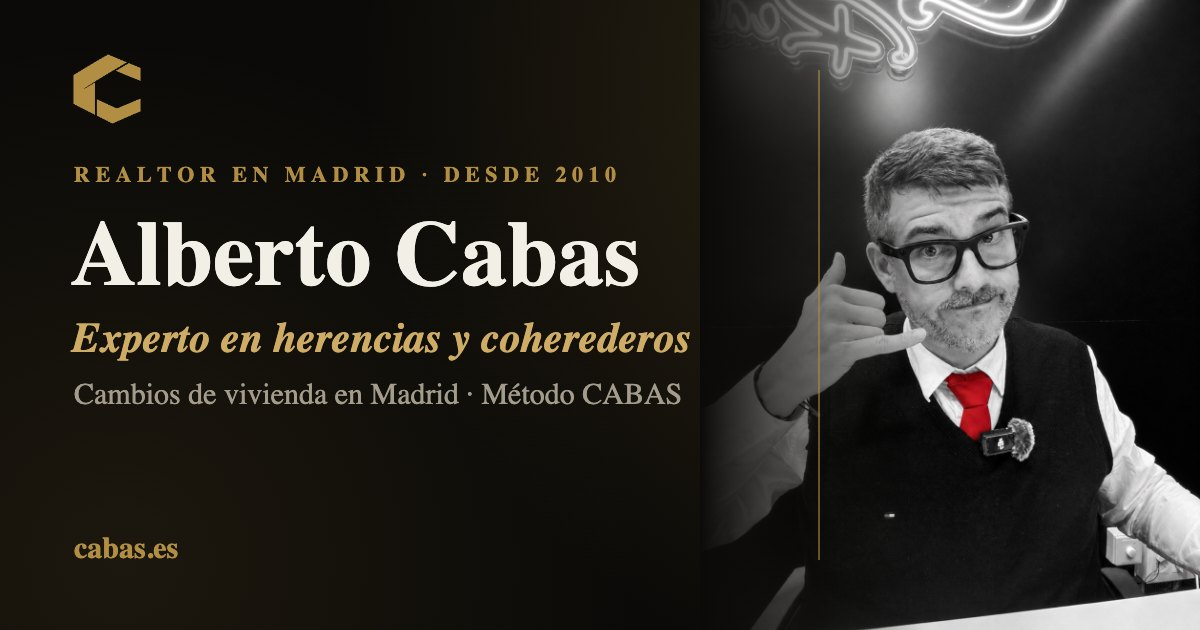
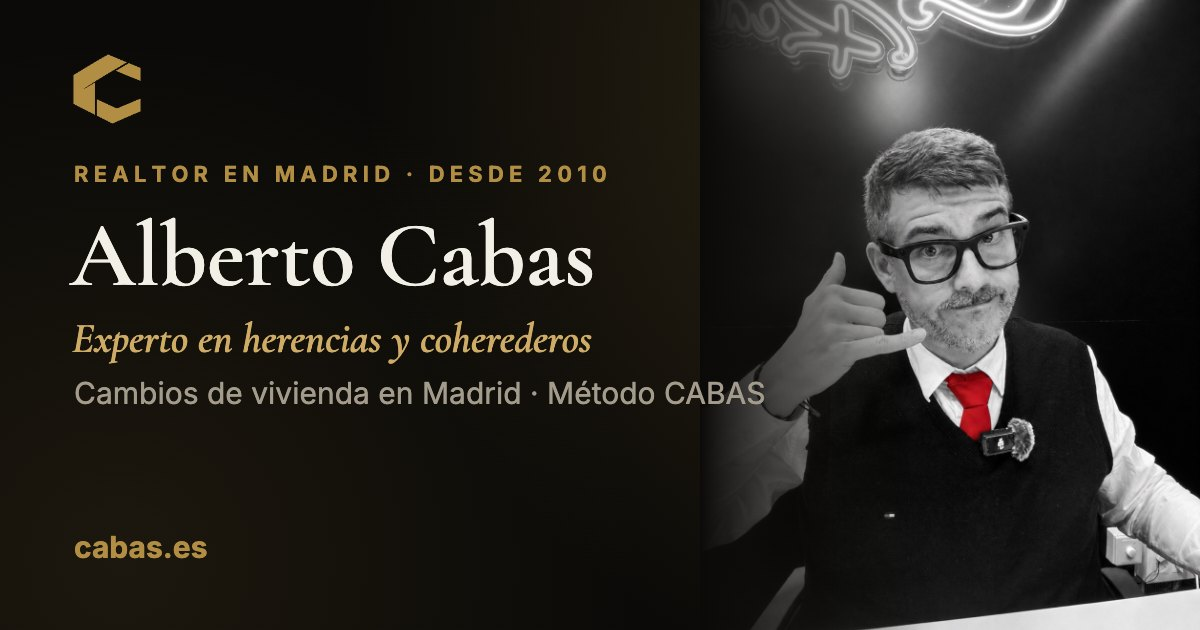
Correcciones: imagen al compartir, aviso, calendario y PDF
- OG image: quitada la línea dorada que cruzaba la mano en el banner
- Aviso "datos precargados" (informe): borde dorado completo en vez de línea verde
- Calculadoras en claro: color-scheme:light para que el icono del calendario de las fechas se vea sobre fondo blanco
- Hoja del PDF (informe del neto): dígitos de la tabla con tabular-nums para que queden alineados

diff --git a/css/informe.css b/css/informe.css
@@ -34,7 +34,7 @@
 .i-tabla-cab .tin-label{color:#8A8272;font-size:.78rem}
 table.i-tabla{width:100%;border-collapse:collapse;margin-bottom:.5rem}
 table.i-tabla th{background:#000;color:#F2EFE7;text-align:left;font-size:.72rem;text-transform:uppercase;letter-spacing:.05em;padding:.6rem .7rem;font-weight:600}
-table.i-tabla th.num,table.i-tabla td.num{text-align:right}
+table.i-tabla th.num,table.i-tabla td.num{text-align:right;font-variant-numeric:tabular-nums}
 table.i-tabla th.centro,table.i-tabla td.centro{text-align:center}
 table.i-tabla td{padding:.65rem .7rem;font-size:.86rem;border-bottom:1px solid #EDE7D8;color:#1A1712}
 table.i-tabla tr:nth-child(even) td{background:#FAF8F2}

diff --git a/js/informe-ui.js b/js/informe-ui.js
@@ -34,7 +34,7 @@ actualizarHonorariosUI();
   if (p.get('ccaa')) document.getElementById('f-ccaa').value = p.get('ccaa');
   if (p.get('tipo')) document.getElementById('f-tipo').value = p.get('tipo');
   const aviso = document.getElementById('f-avisos');
-  aviso.innerHTML = '<div class="aviso aviso-verde">Datos precargados desde el simulador. Añade abajo las aportaciones, tipos de interés y plazos que quieras comparar.</div>';
+  aviso.innerHTML = '<div class="aviso aviso-oro">Datos precargados desde el simulador. Añade abajo las aportaciones, tipos de interés y plazos que quieras comparar.</div>';
 })();
 
 // ---------- Lectura profesional (bullets automáticos) ----------

diff --git a/css/style.css b/css/style.css
@@ -586,3 +586,10 @@ a.cifra:hover span{color:#161310}
 
 /* #2 Oficinas: vídeo de cabecera y foto (fallback móvil) en blanco y negro */
 .video-header .hero-media{filter:grayscale(1)}
+
+/* #3 Calculadora clara: que los controles nativos (calendario de fecha, etc.)
+   se rendericen en modo claro para que el icono se vea sobre fondo blanco */
+.calc .campo input,.calc .campo select,.calc .campo textarea{color-scheme:light}
+
+/* #2 Aviso "datos precargados": borde dorado completo (no la línea verde) */
+.aviso.aviso-oro{border:1px solid var(--oro);background:rgba(178,142,68,.10);color:var(--hueso)}
